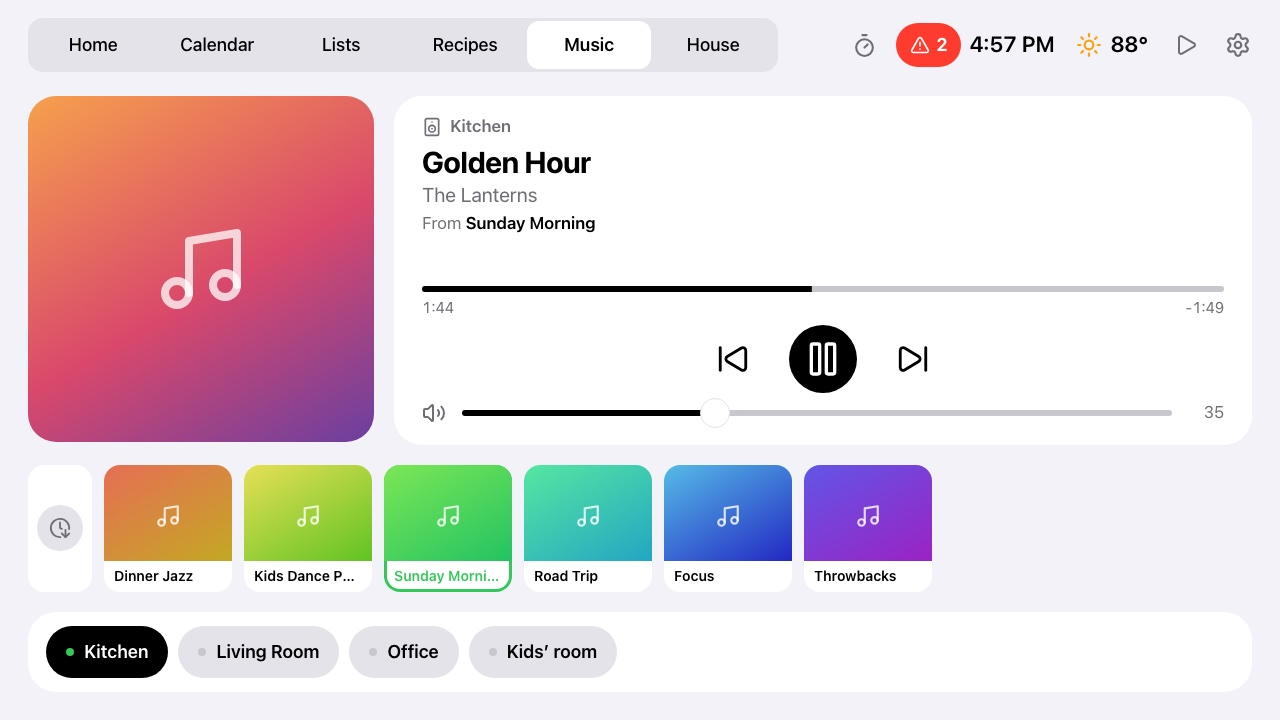
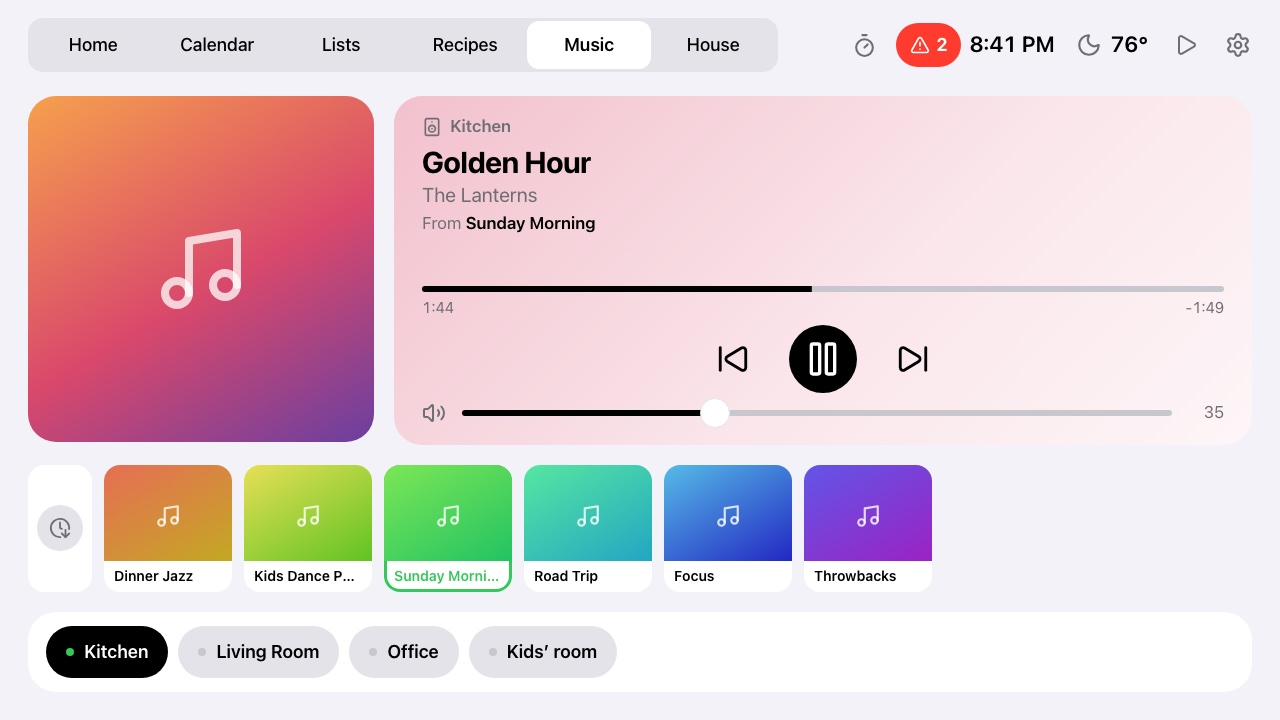
Docs: feature table, list sort, recipes views and grocery source brought up to date; new screenshots
Claude-Session: claude --resume 8ada97f6-6e94-4d2f-928b-faf4e0c7a67c

Changed region(s): [[0.2812, 0.1222, 0.875, 0.6417], [0.8438, 0.0306, 0.875, 0.0917], [0.75, 0.0306, 0.7812, 0.0917]]

diff --git a/README.md b/README.md
@@ -54,20 +54,20 @@ Go watch the video and star both repositories. See [CREDITS.md](CREDITS.md) for 
 
 | Feature | | What it does |
 | --- | --- | --- |
-| **[House tab](#house-tab-home-assistant-devices)** | New | Mirrors one HA dashboard, live: tap to toggle, thermostat setpoints tinted by heating/cooling, HA-rendered markdown, camera snapshots on tap. |
+| **[House tab](#house-tab-home-assistant-devices)** | New | Mirrors one HA dashboard, live: tap to toggle, thermostat setpoints tinted by heating/cooling (kept the thermostat's minimum gap apart), HA-rendered markdown, camera snapshots with a Refresh button, and a camera full screen on tap (live video, sharper through ring-mqtt where the frame can play it). |
 | **[Doorbell pop-up](#doorbell)** | New | A ring fills the screen with that doorbell's camera, live video or the latest snapshot, for 90 seconds. Found automatically. |
 | **[Notices](#notices-from-home-assistant)** | New | HA automations post banners such as "Garage freezer is 18°F" that clear themselves. Blueprints for temperature limits and thermostat changes. |
 | **[Presence](#clock-screen-and-presence)** | Updated | With motion sensors in an HA area (the kitchen, say), the clock screen waits until nobody has been seen for a while, and goes away when someone walks in. |
-| **[Music](#music)** | Updated | Spotify through HA: Spotify Connect speakers, every playlist (last played on any device, or A–Z) and which one is playing, Now Playing on Home and every tab's top bar, controls that answer at once, and starting from silence on an Echo. |
+| **[Music](#music)** | Updated | Spotify through HA: Spotify Connect speakers, every playlist (last played on any device, or A–Z) and what's playing from (a playlist, album, artist or autoplay), Up next, a card tinted with the cover's colour, Now Playing on Home and every tab's top bar, controls that answer at once, and starting from silence on an Echo. |
 
 ### In the kitchen
 
 | Feature | | What it does |
 | --- | --- | --- |
-| **[Paprika recipes](#our-recipes-from-paprika)** | New | A read-only sync of your library: categories, search, an A–Z index, your notes and nutrition. Tap a direction to mark your place; earlier ones are checked off. |
+| **[Paprika recipes](#our-recipes-from-paprika)** | New | A read-only sync of your library: categories (A–Z, plus Uncategorized), search, an A–Z index, your notes and nutrition, and the full-size photo. Tap a direction to mark your place; earlier ones are checked off. A script fixes recipes whose imports only got a thumbnail, in Paprika itself. |
 | **Meal plan** | New | Paprika's planned meals on Home ("Dinner" at the top of Today) and a Meals view for the week. |
 | **[Timers](#timers)** | New | Tap a time, then a name (Pasta, Oven). Times in recipe directions are buttons. A chip on every screen, then a chime, a full-screen alert and an Echo announcement. |
-| **[Lists](#weather-and-lists)** | Updated | Groceries and Tasks in one tab, and side by side on Home. Each from Todoist or, through a Mac at home, Apple Reminders (Siri, the watch and the phone, two-way within seconds). |
+| **[Lists](#weather-and-lists)** | Updated | Groceries and Tasks in one tab, and side by side on Home. Each from Todoist or, through a Mac at home, Apple Reminders (Siri, the watch and the phone, two-way within seconds), with priorities, due times, aisles and flags. Tap an item to edit it; ticking one gives a few seconds to undo. |
 
 ### At a glance
 

diff --git a/docs/recipes.md b/docs/recipes.md
@@ -1,7 +1,10 @@
 # Recipes
 
-The Recipes tab has two parts:
+The Recipes tab has four views:
 
+- **Meals:** the Paprika meal plan for the week (see the README's Paprika section).
+- **Paprika:** your Paprika library, synced read-only, with its categories (A–Z, and Uncategorized
+  when a recipe has none), search and an A–Z strip.
 - **Explore:** recipes from [TheMealDB](https://www.themealdb.com) (free, a few hundred curated
   recipes with photos; the free API key is for personal use). Browse by category or tap
   **Surprise me** for a random recipe. Vegetarian and Vegan recipes are left out (`HIDDEN` in
@@ -10,11 +13,11 @@ The Recipes tab has two parts:
   trash button on its page.
 
 On a recipe page, tap the ingredients you already have to cross them off. **Add N to Groceries**
-then adds the rest to the Todoist grocery list (`TODOIST_GROCERY_PROJECT`), one task each, such as
-"Chicken thighs (2 lb)". Each task's description reads "For: <recipe title>". The frame shows that
-note in small grey text under the item (the first line of any Todoist description is shown the
-same way, on Groceries and Tasks). In demo mode
-nothing reaches Todoist.
+then adds the rest to Groceries (Todoist's grocery project, or the Reminders list when Groceries
+comes from Reminders; see [lists.md](lists.md)), one item each, such as "Chicken thighs (2 lb)". Each
+item's note reads "For: <recipe title>", which the frame shows in small grey text under it (the
+first line of any note is shown the same way, on Groceries and Tasks). In demo mode nothing leaves
+the frame.
 
 ## Saving a recipe from an agent
 
